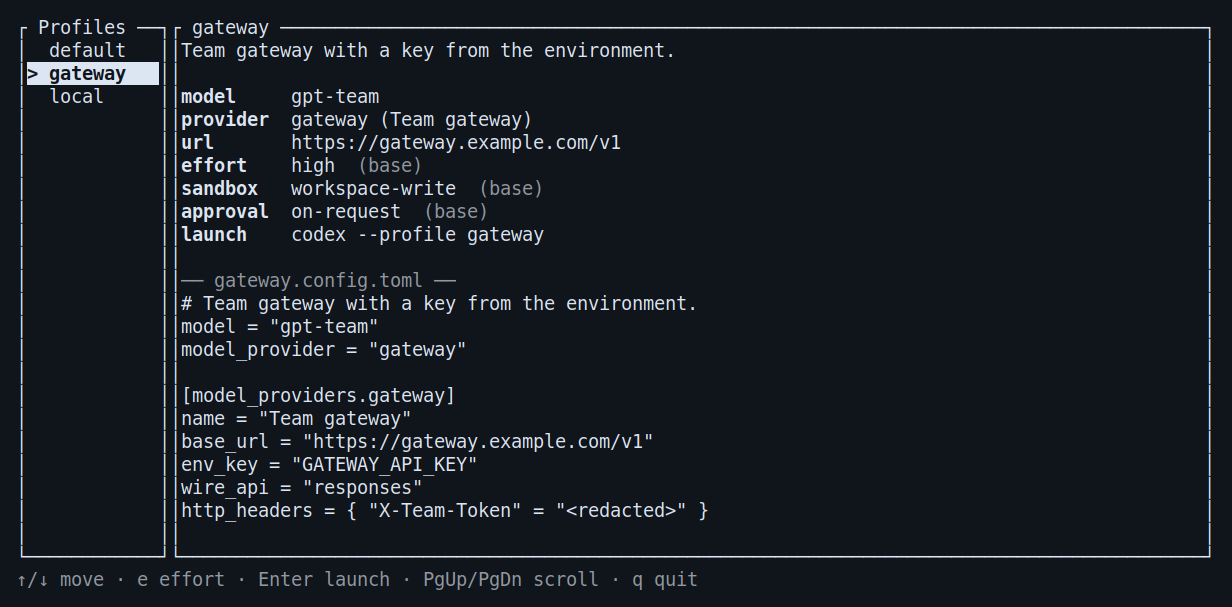
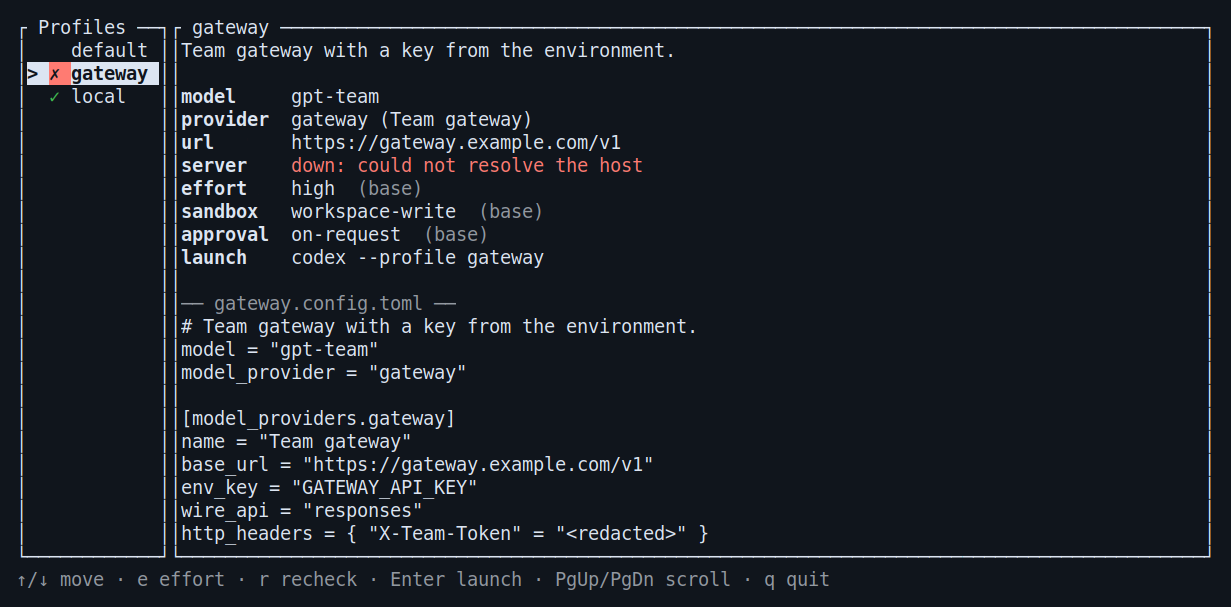
Update the README screenshot for server checks
Recapture the menu with the repository's sample profiles in the same
terminal setup, now with server marks, the gateway's server line, and r
in the help line. A stand-in server answered for local, and the gateway
had a dummy key.

diff --git a/README.md b/README.md
@@ -5,7 +5,7 @@ profile and launching Codex with it. You can also list, inspect, and launch
 profiles from the command line, and another program can read and drive a
 running menu through `codex-launcher ctl`.
 
-![codex-launcher showing sample profiles, inherited effort, and redacted configuration](docs/images/launcher.png)
+![codex-launcher showing sample profiles with server checks, inherited effort, and redacted configuration](docs/images/launcher.png)
 
 *The menu running with the repository’s sample profiles.*
 
